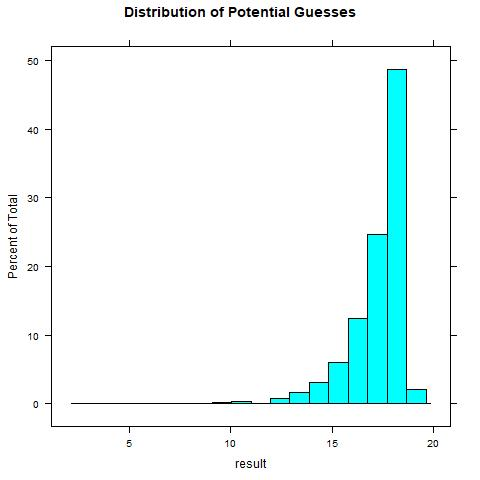
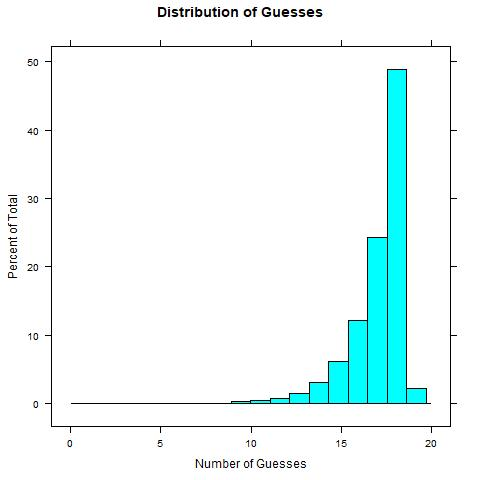
new

diff --git a/index.html b/index.html
@@ -48,7 +48,7 @@ $$
 L = \textrm{floor}\left(\frac{\log(k)}{\log(2)}\right)
 $$ 
 
-and then the maximum number of guesses needed is \(1 + L\), or initial guess plus remaining number of times the sequence can be halved. Applying this to the dictionary problem with a dictionary consisting of 267,751 words yields an expected maximum number of guesses:
+and then the maximum number of guesses needed is \(1 + L\), or initial guess plus remaining number of times the sequence can be halved. Applying this to the dictionary problem with a dictionary consisting of 267,751 words yields an expected <b> maximum </b> number of guesses:
 
 $$
 \textrm{floor}\left(\frac{\log(267751)}{\log(2)}\right) + 1 = 19.
@@ -56,7 +56,7 @@ $$
 </p>
 
 <p>
-However, guessing the secret word could happen in fewer than 19 guesses. Hence, we can simulate the problem using a binary search algorithm over multiple replications of the problem and find the expected value via simulaiton. The result would give an empirical distribution for the number of guesses needed to find the secret word as:
+However, guessing the secret word could happen in fewer than 19 guesses. Hence, we can simulate the problem using a binary search algorithm over multiple replications of the problem and find the expected value via simulation. The result would give an empirical distribution for the number of guesses needed to find the secret word as:
 </p>
 
 <center>
@@ -89,7 +89,7 @@ binSearch <- function(k, s){
 }
 
 ### Iterate over binSearch function 100,000 times to find expected value
-k <- 100000
+k <- 200000
 result <- numeric(k)
 L <- 267751
 for(i in 1:k){
